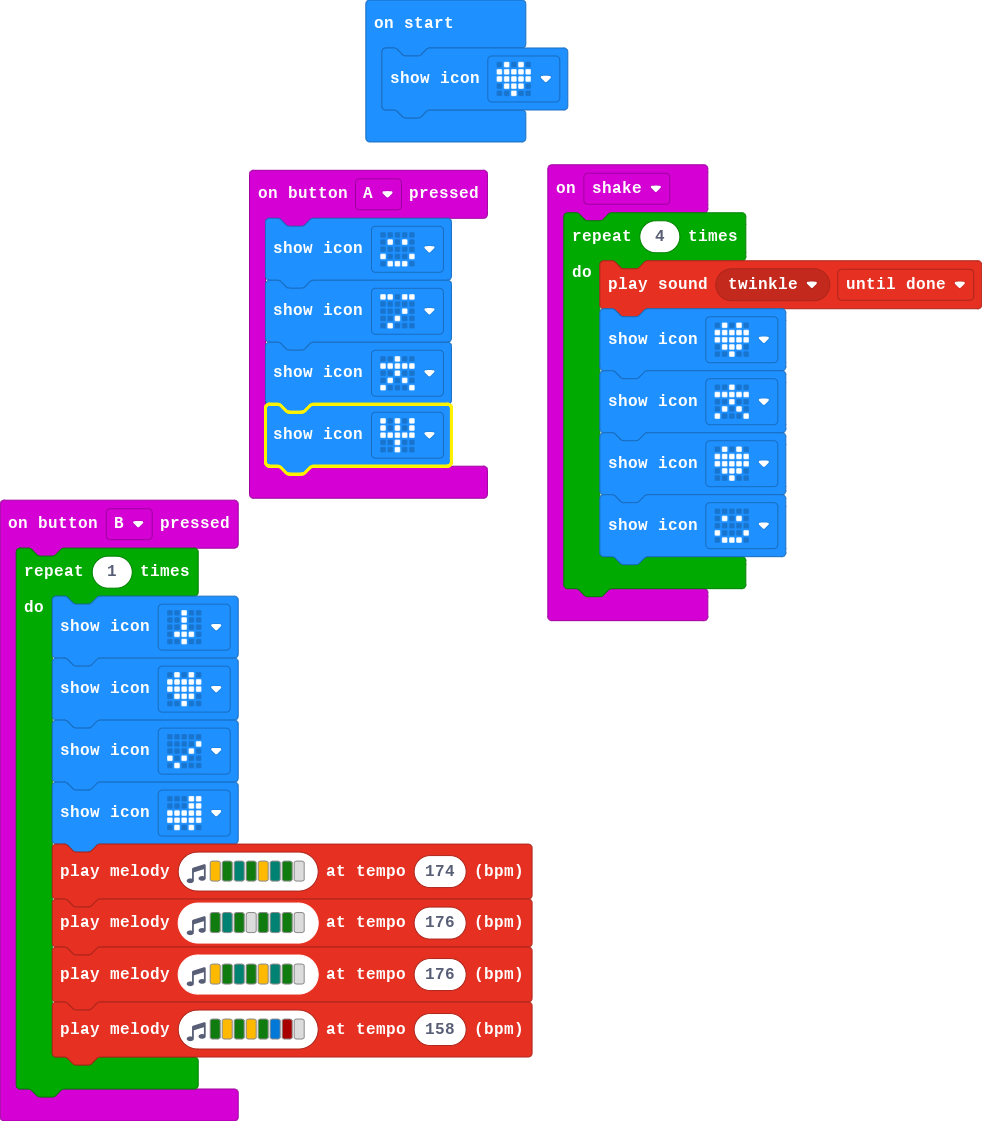
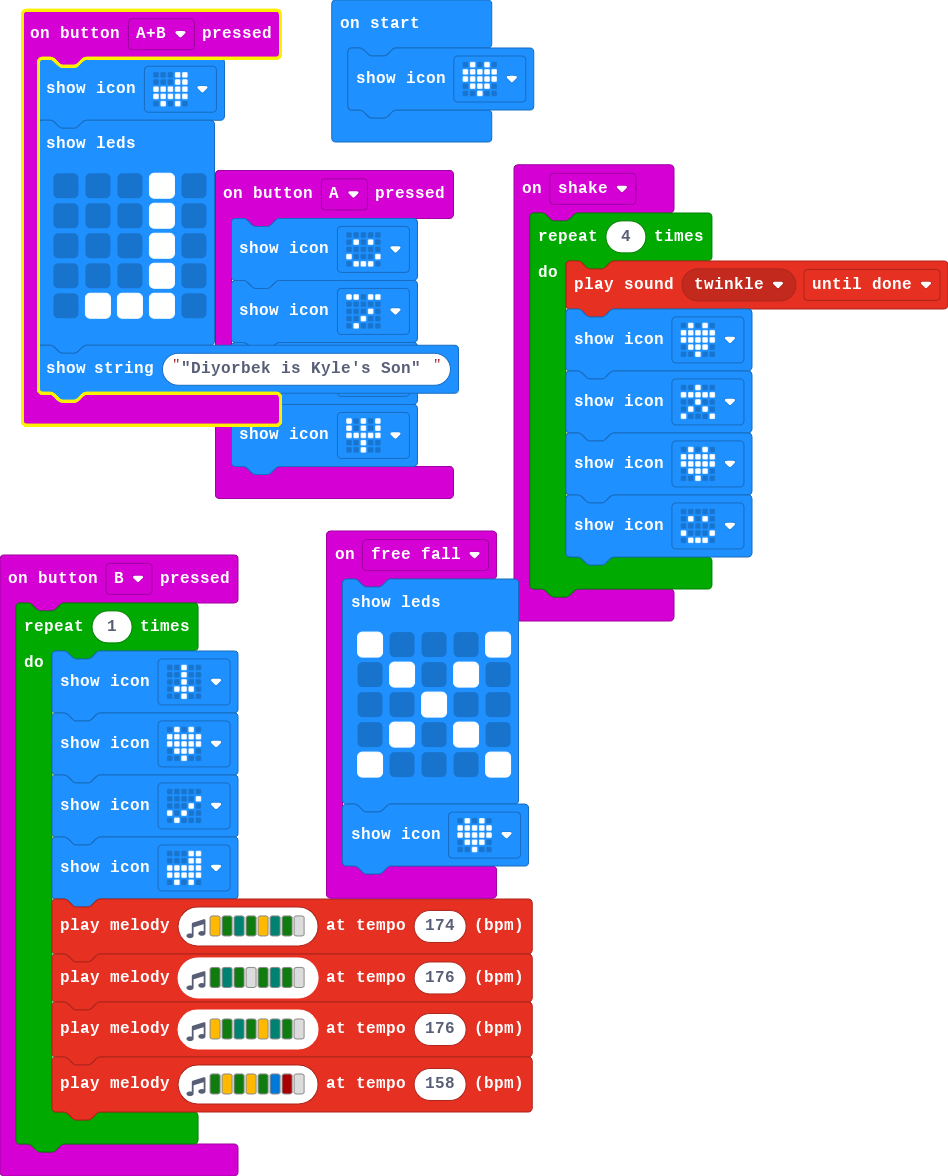
Update main.blocks, main.ts

diff --git a/main.ts b/main.ts
@@ -4,6 +4,27 @@ input.onButtonPressed(Button.A, function () {
     basic.showIcon(IconNames.StickFigure)
     basic.showIcon(IconNames.Pitchfork)
 })
+input.onGesture(Gesture.FreeFall, function () {
+    basic.showLeds(`
+        # . . . #
+        . # . # .
+        . . # . .
+        . # . # .
+        # . . . #
+        `)
+    basic.showIcon(IconNames.Heart)
+})
+input.onButtonPressed(Button.AB, function () {
+    basic.showIcon(IconNames.Rollerskate)
+    basic.showLeds(`
+        . . . # .
+        . . . # .
+        . . . # .
+        . . . # .
+        . # # # .
+        `)
+    basic.showString("\"Diyorbek is Kyle's Son\" ")
+})
 input.onButtonPressed(Button.B, function () {
     for (let index = 0; index < 1; index++) {
         basic.showIcon(IconNames.Sword)
